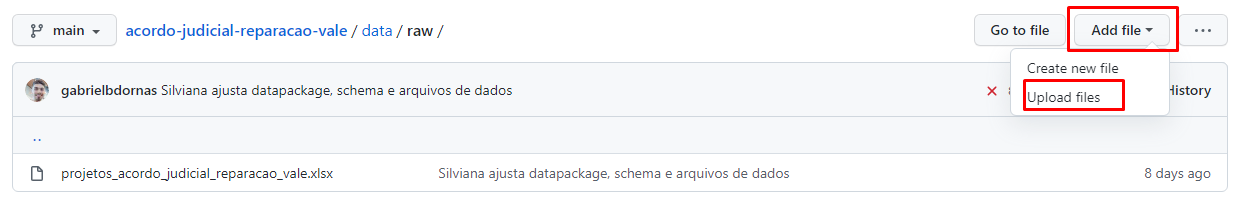
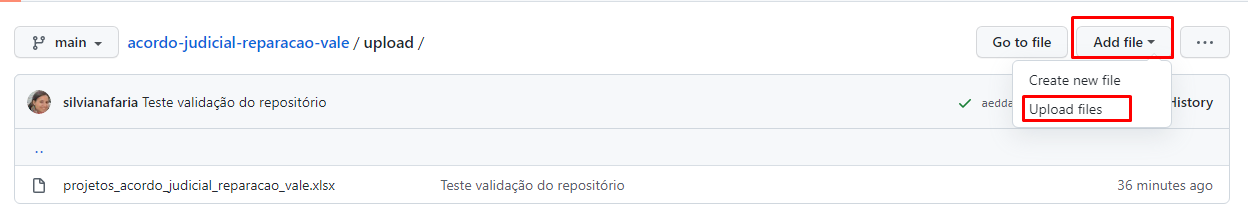
Altera texto changelog e USAGE

diff --git a/USAGE.md b/USAGE.md
@@ -2,11 +2,12 @@
 
 ## 1- Criação de usuário
 
-Para o envio do conjunto de dados para o Portal de Dados Abertos do Estado de Minas Gerais - PDA/MG (https://dados.mg.gov.br/) será necessária a criação de uma conta no Github (ferramenta utilizada pela equipe da Diretoria Central de Transparência Ativa - DTA para armazenamento dos conjunto dados) e no Portal de Dados Abertos
+Para o envio do conjunto de dados para o Portal de Dados Abertos do Estado de Minas Gerais - PDA/MG (https://dados.mg.gov.br/) será necessária a criação de uma conta no Github (ferramenta utilizada pela equipe da Diretoria Central de Transparência Ativa - DTA para armazenamento dos conjunto dados) e no Portal de Dados Abertos.
 
 #### Github
 
   - Acesse o Github através do [link](https://github.com/signup?source=login) e siga os passos para a criação de uma conta.
+  - O nome do usuário deverá ser apenas letras, sem caracteres especiais e números.
   - Após criação do usuário informar a equipe da DTA os usuários para que possamos vinculá-los ao repositório.
 
 #### Portal de Dados Abertos
@@ -14,7 +15,15 @@ Para o envio do conjunto de dados para o Portal de Dados Abertos do Estado de Mi
 Preencher e enviar para a DTA o formulário de criação de usuário disponível no SEI:
 
 - Tipo de Processo: Governo Aberto, Transparência e Controle Social
-- Tipo de Documento:
+- Tipo de Documento: CGE- Cadastro de Usuário no Portal de Dados Abertos
+
+#### Identificação do usuário para atualização
+
+Para identificação do usuário responsável pela atualização dos dados no PDA/MG será necessário, uma única vez, informar o usuário responsável:
+
+- No Portal de Dados Abertos clique no nome do usuário e copie a chave da API (essa  chave é individual para cada usuário).
+- No repositório do Acordo Judicial dentro do GitHub clique em  em *Settings* e em seguida clique em *Secrets* e em *Actions*.
+- Clique em  *New repository secrets* e insira o nome do usuário no campos *Name* **CKAN_KEY_NOMEUSUARIO** e a chave da API no campo *Value* e clique em *Add secret*.
 
 
 ## 2- Atualização e validação no GitHub
@@ -32,9 +41,9 @@ Sempre que os dados forem alterados as novas informações devem ser atualizadas
 
 #### 2.2 Upload
 
-Após a atualização dos dados, acesse a sua conta do [Github](https://github.com/login) e em seguida acesse o repositório do conjunto de dados por meio do link [Repositório - acordo-judicial-reparacao-vale](https://github.com/transparencia-mg/acordo-judicial-reparacao-vale/tree/main/data/raw).
+Após a atualização dos dados, acesse a sua conta do [Github](https://github.com/login) e em seguida acesse o repositório do conjunto de dados por meio do link [Repositório - acordo-judicial-reparacao-vale](https://github.com/transparencia-mg/acordo-judicial-reparacao-vale/tree/main/upload).
 
-- Clique em *Add file* (Adicionar arquivo) e em seguida clique em *upload files* (upload de arquivos*);
+- Na pasta **/upload/** clique em *Add file* (Adicionar arquivo) e em seguida clique em *upload files* (upload de arquivos*);
 
 ![](static/upload.png)
 
@@ -51,45 +60,29 @@ Após a atualização dos dados, acesse a sua conta do [Github](https://github.c
 
 Após realizar o *commit* do arquivo é necessário verificar se o mesmo foi validado, ou seja, se o arquivo está de acordo com as regras de validação estabelecidas.
 
-Na página do [Repositório](https://github.com/transparencia-mg/acordo-judicial-reparacao-vale/tree/main/data/raw) verifique, na barra acima do arquivo, a situação do arquivo.
+- Na página do [Repositório](https://github.com/transparencia-mg/acordo-judicial-reparacao-vale) clique em *Actions*. O campo *All workflows* irá apresentar todos os *commits* realizados no repositório.
+- Clique no *commit* desejado e verifique o fluxo de validação.
 
-1. Se aparecer um 'tique' verde o arquivo foi validado corretamente.
- ***inserir imagem***
+![](static/actions.png)
 
-![](static/correto.png)
+- Se o processo for exibido como concluído em todas as etapas, apenas verifique no Portal de Dados Abertos se os dados alterados realmente foram carregados.
 
-2. Caso apareça um *'X'* vermelho significa que existe erro na validação. Nesse caso clique no símbolo *'X'* e em seguida em *Details* para verificar o erro.
+![](static/fluxo-validacao.png)
+
+- Se aparecer algum problema durante a validação, siga os passos abaixo:
+
+  - Clique em *validate* e no link que apresenta o erro de validação;
+  - Em seguida verifique qual o erro apresentado e faça as correções necessárias.
 
 ![](static/erro.png)
 
-2.1 Clique no *link* referente ao erro e verifique a falha apresentada e faça as devidas correções.
-![](static/)
+---
 
-2.2. Faça novamente o *upload* do arquivo corrigido e repita os passos executados anteriormente.
+![](static/erro-link.png)
+
+-------
+
+![](static/erro-frictionless.png)
 
 
-## 3. Controle de alterações
-
-Após realizar o *upload* e validação do arquivo, será necessário informar quais alterações foram realizadas.
-
-1. Acesse o arquivo [CHANGELOG.md](https://github.com/transparencia-mg/acordo-judicial-reparacao-vale/blob/main/CHANGELOG.md) e informe as alterações que foram realizadas.
-
-2. Clique na imagem do lápis (*Edit this file*) e informe as alterações realizadas.
-
-![](static/caneta.png)
-
-3. Inclua o número sequencial e data da alteração.   
- Exemplo: ### [0.0.x] - AAAA-MM-DD
-
-4. Ao finalizar as alterações digite na área *Commit changes* uma mensagem que descreva as alterações e em seguida clique em  *Commit changes*  
-Exemplo: Altera informações conforme consta na deliberação xx.
-
-![](static/botaocommit.png)
-
-__________________
-
-## 4. Atualização do arquivo no Portal de Dados Abertos
-
-Com o usuário ativo no PDA/MG será necessário, uma única vez, informar o usuário responsável pelas atualizações dos dados.
-
-1. Clique em *Security* e em seguida clique em
+* Faça novamente o *upload* do arquivo corrigido e repita os passos executados anteriormente.

diff --git a/CHANGELOG.md b/CHANGELOG.md
@@ -1,8 +1,8 @@
 ## Controle de alterações
 
-Documentação das principais alterações sofridas por este repositório. Baseado na filosofia [Mantenha um Changelog](https://keepachangelog.com/pt-BR/1.0.0/).
+Documentação das principais alterações. Baseado na filosofia [Mantenha um Changelog](https://keepachangelog.com/pt-BR/1.0.0/).
 
-### [0.0.1] - 2022-xx-xx
+### [0.0.1] - 2022-04-06
 
 - Divulgação dos dados referentes aos recursos repassados pela Vale S.A. para cobrir os gastos com os projetos destinados a reparação dos danos causados com o rompimento da barragem.
 - Os valores refere-se aos 11,06 bilhões repassados ao Estado, bem como as alterações ocorridas por meio das deliberações do Conselho Superior do Comitê Gestor Pró-Brumadinho:
